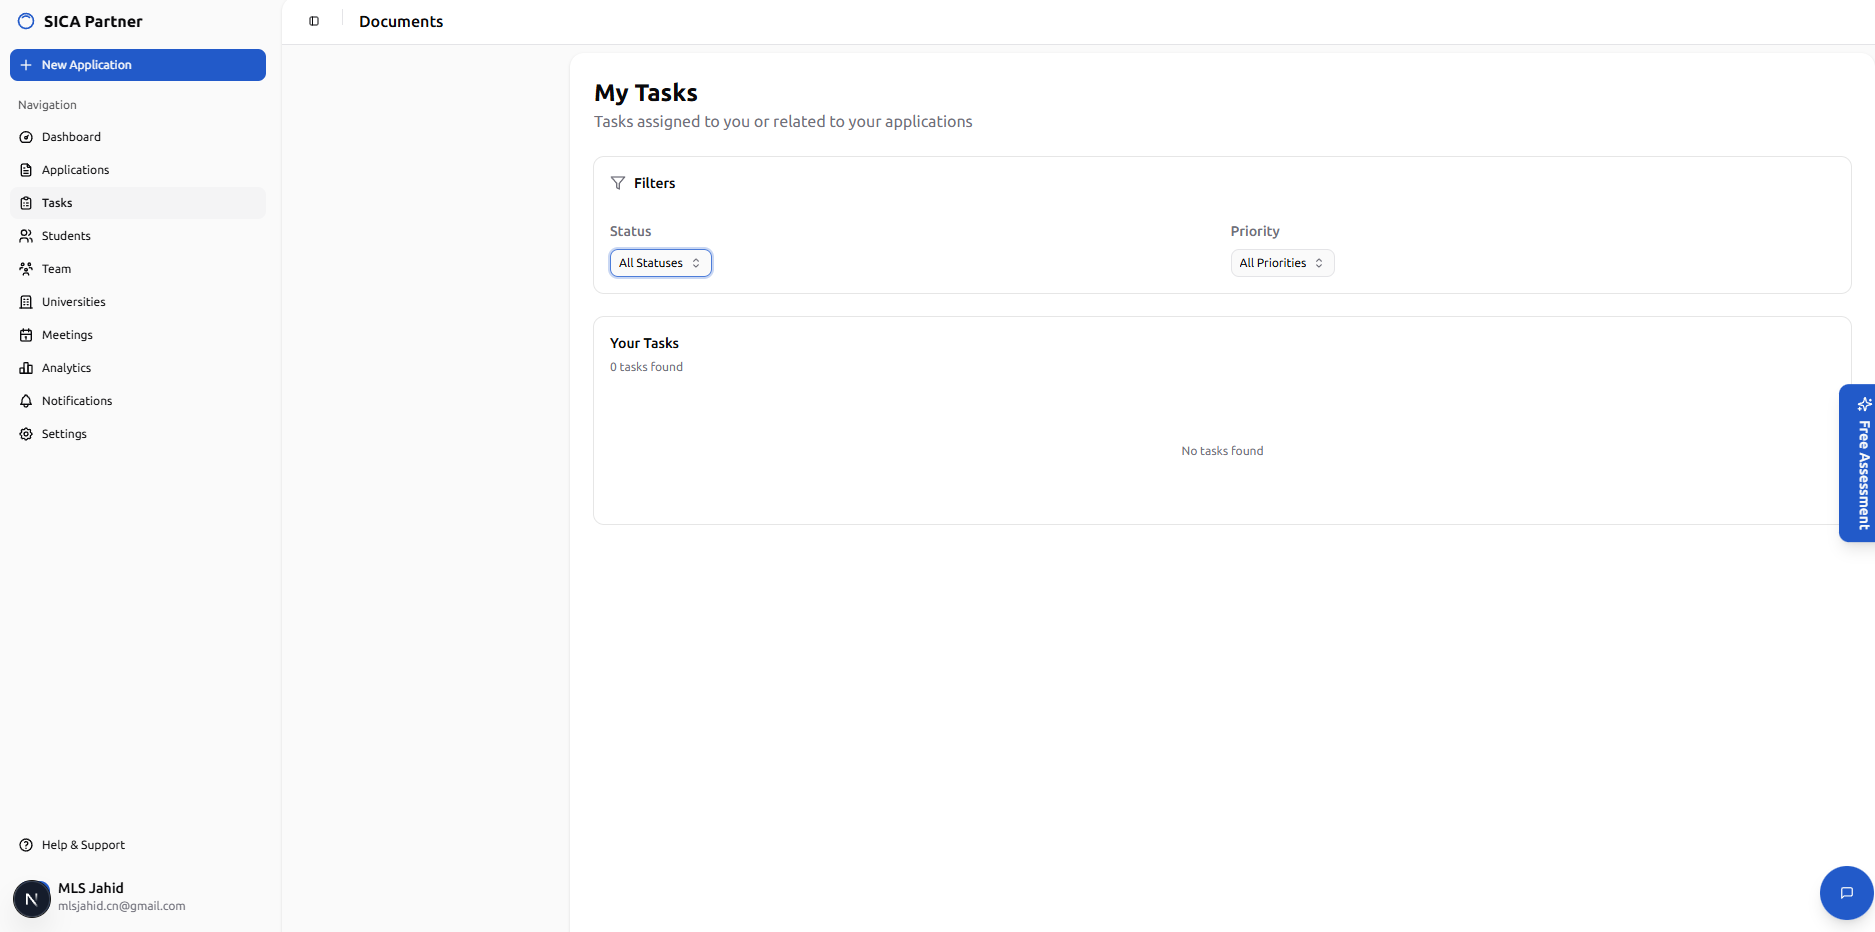
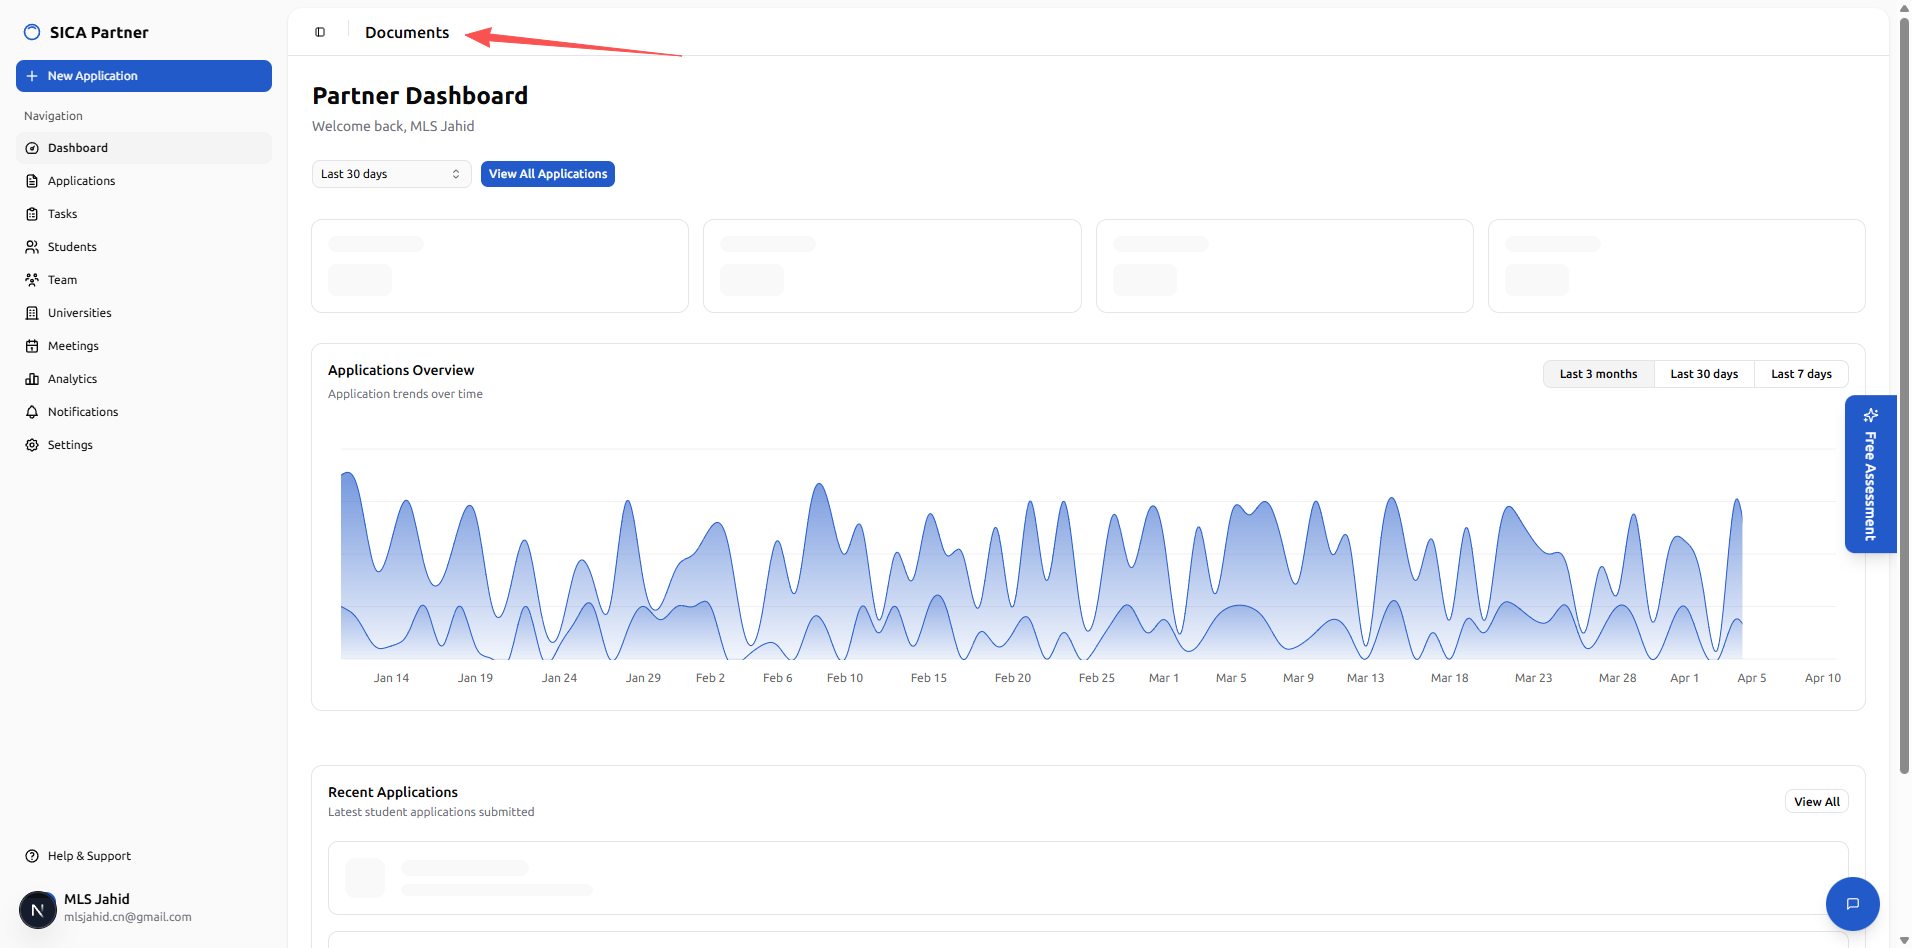
fix: replace hardcoded 'Documents' header with dynamic page title based on route
SiteHeader now uses usePathname() to determine the current page and display
the correct title (Dashboard, Applications, Students, etc.) instead of always
showing 'Documents'. Covers all partner-v2, student-v2, and admin-v2 routes
including dynamic routes like application details and student details.

diff --git a/src/components/site-header.tsx b/src/components/site-header.tsx
@@ -1,8 +1,81 @@
-import { Button } from "@/components/ui/button"
-import { Separator } from "@/components/ui/separator"
-import { SidebarTrigger } from "@/components/ui/sidebar"
+'use client';
+
+import { usePathname } from 'next/navigation';
+import { Button } from "@/components/ui/button";
+import { Separator } from "@/components/ui/separator";
+import { SidebarTrigger } from "@/components/ui/sidebar";
+
+const routeTitles: Record<string, string> = {
+  '/partner-v2': 'Dashboard',
+  '/partner-v2/applications': 'Applications',
+  '/partner-v2/applications/new': 'New Application',
+  '/partner-v2/students': 'Students',
+  '/partner-v2/universities': 'Universities',
+  '/partner-v2/meetings': 'Meetings',
+  '/partner-v2/analytics': 'Analytics',
+  '/partner-v2/notifications': 'Notifications',
+  '/partner-v2/settings': 'Settings',
+  '/partner-v2/profile': 'Profile',
+  '/partner-v2/tasks': 'Tasks',
+  '/partner-v2/team': 'Team',
+  '/student-v2': 'Dashboard',
+  '/student-v2/applications': 'Applications',
+  '/student-v2/applications/new': 'New Application',
+  '/student-v2/documents': 'Documents',
+  '/student-v2/meetings': 'Meetings',
+  '/student-v2/universities': 'Universities',
+  '/student-v2/programs': 'Programs',
+  '/student-v2/notifications': 'Notifications',
+  '/student-v2/settings': 'Settings',
+  '/student-v2/profile': 'Profile',
+  '/student-v2/favorites': 'Favorites',
+  '/student-v2/templates': 'Templates',
+  '/admin/v2': 'Dashboard',
+  '/admin/v2/students': 'Students',
+  '/admin/v2/applications': 'Applications',
+  '/admin/v2/universities': 'Universities',
+  '/admin/v2/programs': 'Programs',
+  '/admin/v2/meetings': 'Meetings',
+  '/admin/v2/blog': 'Blog',
+  '/admin/v2/settings': 'Settings',
+  '/admin/v2/partners': 'Partners',
+};
+
+function getPageTitle(pathname: string): string {
+  // Exact match first
+  if (routeTitles[pathname]) {
+    return routeTitles[pathname];
+  }
+
+  // Dynamic route matching
+  if (pathname.match(/\/partner-v2\/applications\/[^/]+\/documents/)) return 'Application Documents';
+  if (pathname.match(/\/partner-v2\/applications\/[^/]+/)) return 'Application Details';
+  if (pathname.match(/\/partner-v2\/students\/[^/]+/)) return 'Student Details';
+  if (pathname.match(/\/partner-v2\/universities\/[^/]+/)) return 'University Details';
+  if (pathname.match(/\/partner-v2\/meetings\/[^/]+/)) return 'Meeting Details';
+  if (pathname.match(/\/student-v2\/applications\/[^/]+\/documents/)) return 'Application Documents';
+  if (pathname.match(/\/student-v2\/applications\/[^/]+\/edit/)) return 'Edit Application';
+  if (pathname.match(/\/student-v2\/applications\/[^/]+/)) return 'Application Details';
+  if (pathname.match(/\/student-v2\/universities\/[^/]+/)) return 'University Details';
+  if (pathname.match(/\/student-v2\/programs\/[^/]+/)) return 'Program Details';
+  if (pathname.match(/\/student-v2\/meetings\/[^/]+/)) return 'Meeting Details';
+  if (pathname.match(/\/student-v2\/templates\/[^/]+/)) return 'Template Details';
+  if (pathname.match(/\/admin\/v2\/students\/[^/]+/)) return 'Student Details';
+  if (pathname.match(/\/admin\/v2\/applications\/[^/]+/)) return 'Application Details';
+  if (pathname.match(/\/admin\/v2\/universities\/[^/]+/)) return 'University Details';
+  if (pathname.match(/\/admin\/v2\/programs\/[^/]+/)) return 'Program Details';
+  if (pathname.match(/\/admin\/v2\/blog\/[^/]+/)) return 'Edit Post';
+
+  // Fallback: extract last segment and capitalize
+  const segments = pathname.split('/').filter(Boolean);
+  const lastSegment = segments[segments.length - 1] || 'Dashboard';
+  return lastSegment.charAt(0).toUpperCase() + lastSegment.slice(1).replace(/-/g, ' ');
+}
 
 export function SiteHeader() {
+  const pathname = usePathname();
+  const title = getPageTitle(pathname);
+
   return (
     <header className="flex h-(--header-height) shrink-0 items-center gap-2 border-b transition-[width,height] ease-linear group-has-data-[collapsible=icon]/sidebar-wrapper:h-(--header-height)">
       <div className="flex w-full items-center gap-1 px-4 lg:gap-2 lg:px-6">
@@ -11,8 +84,8 @@ export function SiteHeader() {
           orientation="vertical"
           className="mx-2 data-[orientation=vertical]:h-4"
         />
-        <h1 className="text-base font-medium">Documents</h1>
+        <h1 className="text-base font-medium">{title}</h1>
       </div>
     </header>
-  )
+  );
 }
